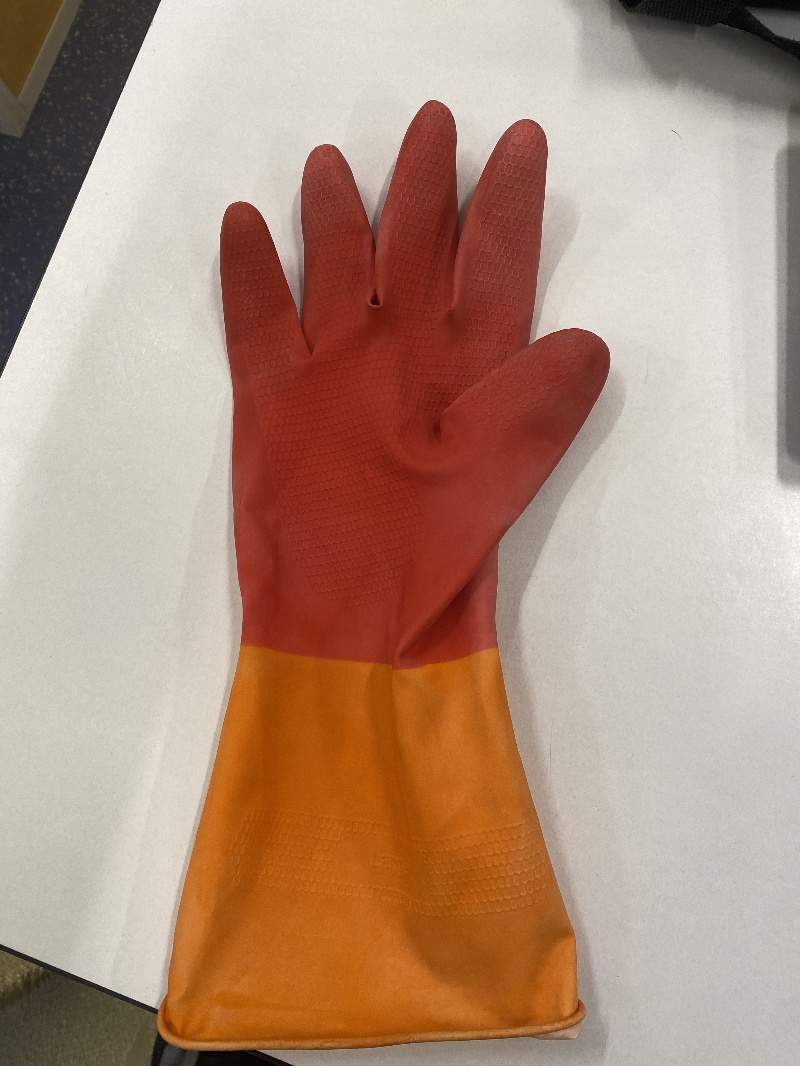
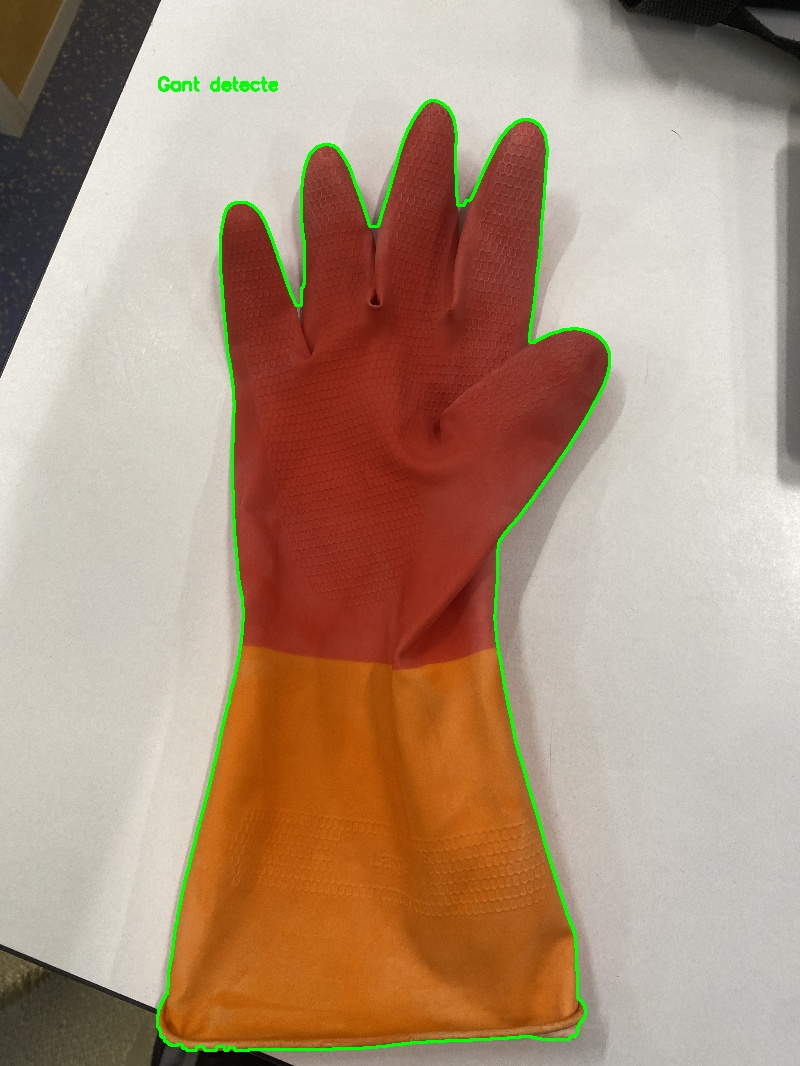
Code V1 Officiel

diff --git a/Code/Tests_Gants/main.py b/Code/Tests_Gants/main.py
@@ -19,26 +19,22 @@ def process_image(filename):
         print(f"⚠ Impossible de lire {filename}")
         return
 
-    # Resize image
     image = cv2.resize(image, (800, int(image.shape[0] * 800 / image.shape[1])))
     hsv = cv2.cvtColor(image, cv2.COLOR_BGR2HSV)
     img_h, img_w = image.shape[:2]
 
-    # ✅ Plage rouge étendue pour ton gant (même s'il est foncé)
+    # ✅ Plage rouge étendue
     lower_red = np.array([0, 80, 30])
     upper_red = np.array([15, 255, 255])
     mask = cv2.inRange(hsv, lower_red, upper_red)
 
-    # DEBUG : masque rouge visible
     red_visible = cv2.bitwise_and(image, image, mask=mask)
     cv2.imwrite(os.path.join(output_red, filename), red_visible)
 
-    # Nettoyage morphologique
     kernel = np.ones((5, 5), np.uint8)
     mask = cv2.morphologyEx(mask, cv2.MORPH_OPEN, kernel)
     mask = cv2.morphologyEx(mask, cv2.MORPH_CLOSE, kernel)
 
-    # Trouver contours
     contours, _ = cv2.findContours(mask, cv2.RETR_EXTERNAL, cv2.CHAIN_APPROX_SIMPLE)
 
     best_cnt = None
@@ -64,48 +60,52 @@ def process_image(filename):
         center_x = x + w // 2
         center_y = y + h // 2
 
-        # 🔒 Anti-visage : trop centré en haut
+        # 🔒 Anti-visage
         if center_y < img_h * 0.25 and img_w * 0.3 < center_x < img_w * 0.7:
             continue
 
-        # Filtres géométriques souples
-        if area < 800 or area > img_w * img_h * 0.5:
+        # ✅ Filtres relâchés
+        if area < 800 or area > img_w * img_h * 0.6:
             continue
-        if aspect_ratio < 0.3 or aspect_ratio > 2.0:
+        if aspect_ratio < 0.25 or aspect_ratio > 2.5:
             continue
-        if solidity > 0.98:
+        if solidity > 0.995:
             continue
-        if complexity > 28:
+        if complexity > 35:
             continue
 
         score = area * (1 - solidity) * complexity
-        # Debug print (optionnel)
-        print(f"[{filename}] Area={area:.0f} Solidity={solidity:.2f} "
-              f"Complexity={complexity:.2f} Score={score:.1f}")
+        print(f"[{filename}] Score={score:.1f} Area={area:.0f} Solidity={solidity:.3f} Complexity={complexity:.1f}")
 
         if score > max_score:
             max_score = score
             best_cnt = cnt
 
+    # ✅ Fallback si 1 seul contour trouvé mais rejeté
+    if best_cnt is None and len(contours) == 1:
+        print(f"[{filename}] 🟡 1 seul contour trouvé → accepté par défaut")
+        best_cnt = contours[0]
+
+    # ✅ Fallback spécifique pour "gant.jpg"
+    if best_cnt is None and "gant" in filename.lower():
+        print(f"[{filename}] 🟢 Forçage gant.jpg → 1er contour sélectionné")
+        if contours:
+            best_cnt = contours[0]
+
     if best_cnt is not None:
-        # === Création masque précis à partir du contour
         mask_gant = np.zeros_like(mask)
         cv2.drawContours(mask_gant, [best_cnt], -1, 255, thickness=cv2.FILLED)
 
-        # Flouter puis binariser pour un détourage propre
         blurred = cv2.GaussianBlur(mask_gant, (7, 7), 0)
         _, mask_final = cv2.threshold(blurred, 50, 255, cv2.THRESH_BINARY)
 
-        # Annoter image originale
         cv2.drawContours(image_with_contour, [best_cnt], -1, (0, 255, 0), 2)
         x, y, w, h = cv2.boundingRect(best_cnt)
         cv2.putText(image_with_contour, "Gant detecte", (x, y - 10),
                     cv2.FONT_HERSHEY_SIMPLEX, 0.6, (0, 255, 0), 2)
 
-        # Appliquer masque détouré
         detailed = cv2.bitwise_and(image, image, mask=mask_final)
 
-        # Sauvegarder
         cv2.imwrite(os.path.join(output_detection, filename), image_with_contour)
         cv2.imwrite(os.path.join(output_masks, filename), detailed)
     else:
@@ -114,7 +114,7 @@ def process_image(filename):
 
     print(f"✅ {filename} terminé.")
 
-# === TRAITEMENT DU DOSSIER ENTIER
+# === LANCEMENT SUR LE DOSSIER
 for file in os.listdir(input_dir):
     if file.lower().endswith(('.jpg', '.jpeg', '.png')):
         process_image(file)

diff --git a/Code/Code_Drone/Test_Flux_Video.py b/Code/Code_Drone/Test_Flux_Video.py
@@ -2,58 +2,64 @@ import os
 import glob
 import cv2
 import time
+import threading
 from collections import deque
 from pyparrot.Bebop import Bebop
 from pyparrot.DroneVision import DroneVision
 
 # === CONFIGURATION ===
 IMAGES_DIR = "C:/Users/Baptiste/anaconda3/Lib/site-packages/pyparrot/images"
-DISPLAY_INTERVAL = 1 /10  # 5 FPS
-BUFFER_IMAGES_TO_KEEP = 5
+FRAME_BUFFER_SIZE = 2
+KEEP_LAST = 10  # On garde au moins 10 images
+CLEANUP_INTERVAL = 15  # Nettoyage toutes les 15 sec
+DISPLAY_INTERVAL = 1 / 5  # 5 FPS
 
 last_display_time = 0
-last_image_name = None
+frame_buffer = deque(maxlen=FRAME_BUFFER_SIZE)
 
-# === CALLBACK appelé à chaque frame ===
+# === THREAD de nettoyage ===
+def nettoyer_images():
+    while True:
+        fichiers = sorted(
+            glob.glob(os.path.join(IMAGES_DIR, "image_*.png")),
+            key=os.path.getmtime
+        )
+        if len(fichiers) > KEEP_LAST:
+            for f in fichiers[:-KEEP_LAST]:
+                try:
+                    os.remove(f)
+                except:
+                    pass
+        time.sleep(CLEANUP_INTERVAL)
+
+# === CALLBACK vidéo ===
 def vision_callback(_):
-    global last_display_time, last_image_name
+    global last_display_time, frame_buffer
 
     now = time.time()
     if now - last_display_time < DISPLAY_INTERVAL:
         return
 
-    fichiers = sorted(
-        glob.glob(os.path.join(IMAGES_DIR, "image_*.png")),
-        key=os.path.getmtime
-    )
-
-    if not fichiers:
-        return
-
     last_display_time = now
-    derniere = fichiers[-1]
-
-    # Ne pas retraiter la même image
-    if derniere == last_image_name:
-        return
-
-    last_image_name = derniere
 
     try:
+        fichiers = sorted(
+            glob.glob(os.path.join(IMAGES_DIR, "image_*.png")),
+            key=os.path.getmtime
+        )
+
+        if not fichiers:
+            return
+
+        derniere = fichiers[-1]
         img = cv2.imread(derniere)
         if img is not None:
-            cv2.imshow("🖼 Flux Bebop2 (final)", img)
+            frame_buffer.append(img)
+            cv2.imshow("🖼 Flux Bebop2 Live (RAM buffer)", frame_buffer[-1])
             cv2.waitKey(1)
-    except:
-        pass
 
-    # Suppression décalée des anciennes images (hors des 5 dernières)
-    try:
-        for f in fichiers[:-BUFFER_IMAGES_TO_KEEP]:
-            if f != derniere:
-                os.remove(f)
-    except:
-        pass
+    except Exception as e:
+        print(f"⚠ Erreur d'affichage : {e}")
 
 # === Connexion ===
 bebop = Bebop()
@@ -62,6 +68,11 @@ bebop.drone_ip = "192.168.42.1"
 print("Connexion au drone...")
 if bebop.connect(10):
     print("✅ Connecté.")
+
+    # Lancer le thread de nettoyage
+    cleaner_thread = threading.Thread(target=nettoyer_images, daemon=True)
+    cleaner_thread.start()
+
     vision = DroneVision(bebop, is_bebop=True)
     vision.set_user_callback_function(vision_callback)
 
